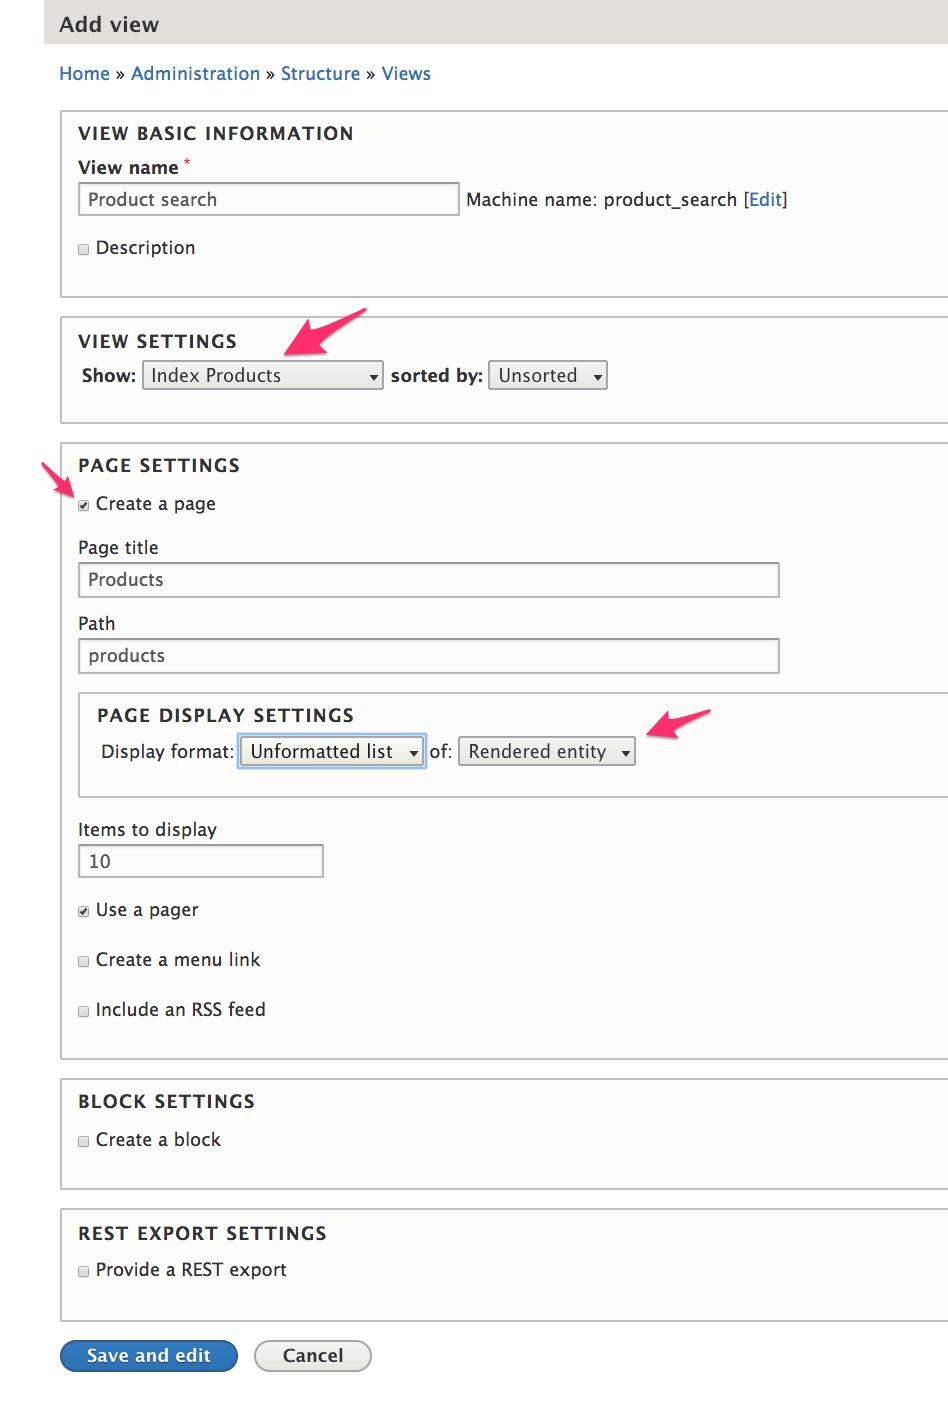
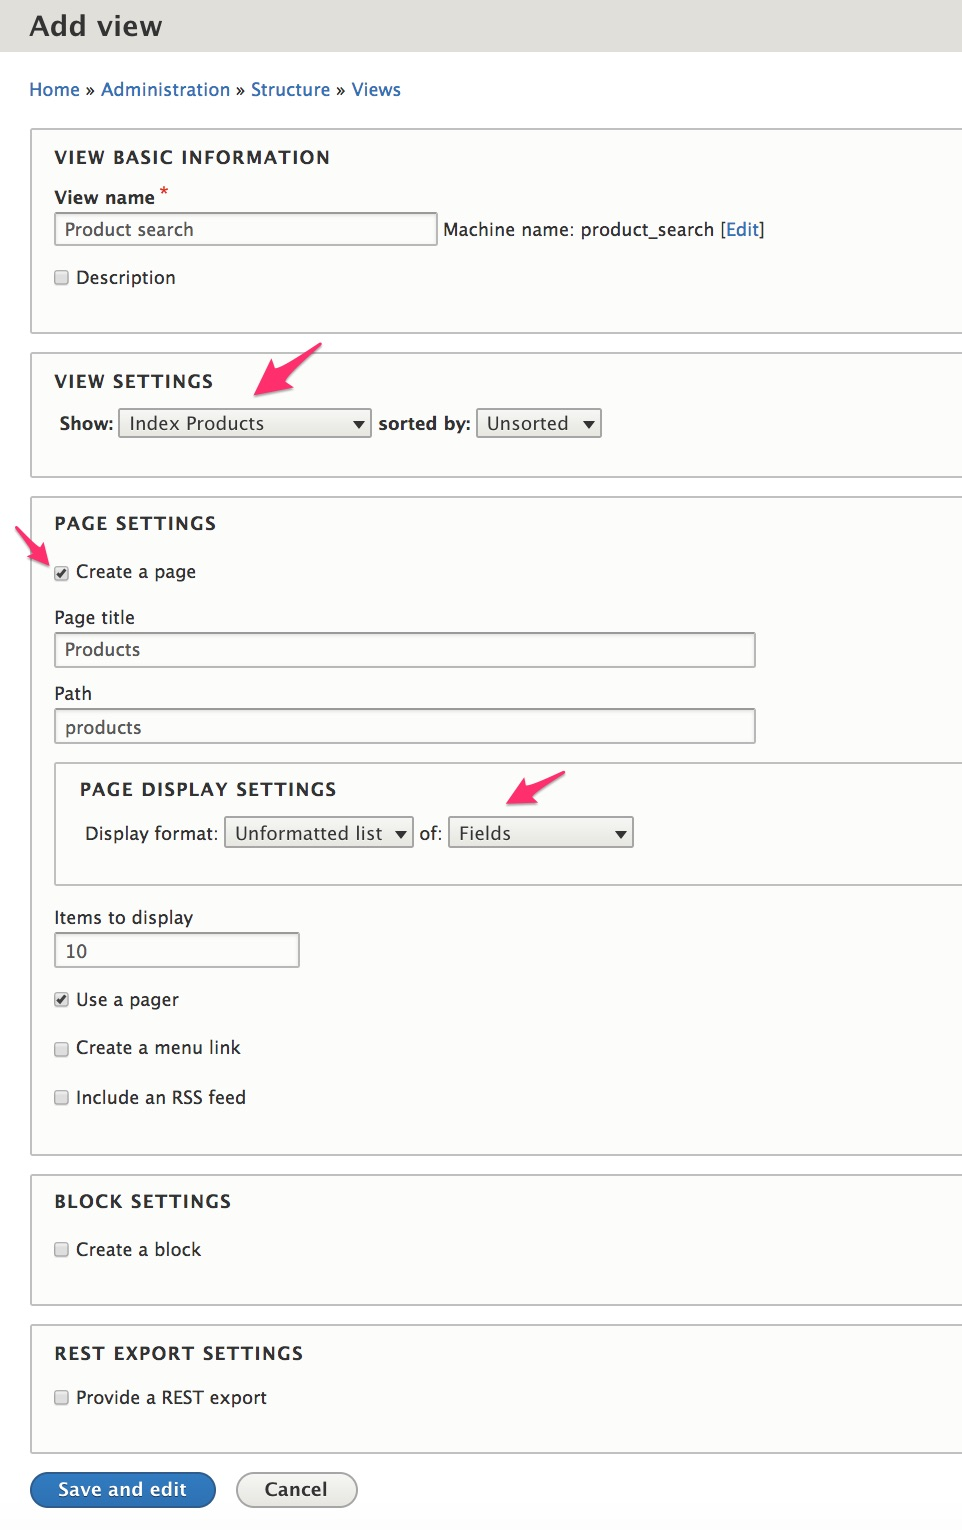
finished product search page draft

Changed region(s): [[0.0, 0.0, 1.0, 0.9958]]

diff --git a/user/pages/03.commerce2/02.developer-guide/03.products/05.marketing-products/01.product-search/docs.md b/user/pages/03.commerce2/02.developer-guide/03.products/05.marketing-products/01.product-search/docs.md
@@ -7,21 +7,26 @@ taxonomy:
 In this section we'll walk through the process of using the [Search API module] and the Drupal 8 core [Views module] to create a basic product search page like this:
 ![Product search page](../../images/product-search.jpg)
 
-#### Configure Search API module for product search
-Search API is a contributed module that provides a framework for creating searches on Drupal entities. To setup product search functionality with Search API, we'll:
-1. [Install the Search API module and uninstall the "Search" module provided by Drupal 8 Core.](#1-install-search-api-modules)
+### Configure Search API module for product search
+Search API is a contributed module that provides a framework for creating searches on Drupal entities. The general steps for setting up search functionality for products (or any type of data) with Search API are:
+
+**Step 1:** [Install the Search API module and uninstall the "Search" module provided by Drupal 8 Core.](#step-1-install-search-api-modules)
  - Typically, you will want to uninstall the Core Search module for performance reasons.
-2. [Add a search server with Drupal's own database as the search backend.](#2-add-a-server)
- - Typically, most sites will want to use a more powerful backend like Solr or Elasticsearch.
-3. [Add an index for products.](#3-add-an-index)
+
+**Step 2:** [Add a search server with Drupal's own database as the search backend.](#step-2-add-a-server)
+ - Typically, most sites will want to use a more powerful backend like Solr or Elasticsearch instead of Drupal's own database..
+
+**Step 3:** [Add an index for products.](#step-3-add-an-index)
  - The index's settings determine what data is indexed and how it is indexed.
-4. [Specify which product fields should be indexed and set their data types and weights.](#4-select-the-indexed-fields)
+
+**Step 4:** [Specify which product fields should be indexed and set their data types and weights.](#step-4-select-the-indexed-fields)
  - The data type of a field determines how it can be used for searching and filtering.
  - A "boost" value is used to give additional weight to fields to affect the ordering of the search results.
-5. [Enable some basic processors for our index.](#5-configure-processors)
+
+**Step 5:** [Enable some basic processors for our index.](#step-5-configure-processors)
  - The [Processors page] in the Search API documentation guide provides a good overview of processor options.
 
-##### 1. Install Search API modules
+##### Step 1: Install Search API modules
 1. Install the [Search API module]. (*see the extending docs.*)
 2. Navigate to the "Extend" page at `/admin/modules`.
 3. Install the "Database Search" and "Search API" modules.
@@ -29,7 +34,7 @@ Search API is a contributed module that provides a framework for creating search
 
 ![Install search api modules](../../images/product-search-1.jpg)
 
-##### 2. Add a server
+##### Step 2: Add a server
 1. Navigate to the Search API configuration page at `/admin/config/search/search-api`.
 2. Click the "Add server" button to add a server.
 3. Enter "Database" for the server name.
@@ -37,7 +42,7 @@ Search API is a contributed module that provides a framework for creating search
 
 ![Add server](../../images/product-search-2.jpg)
 
-##### 3. Add an index
+##### Step 3: Add an index
 1. Return to the Search API configuration page at `/admin/config/search/search-api`.
 2. Click the "Add index" button to add an index.
 3. Enter "Products" for the index name.
@@ -48,26 +53,31 @@ Search API is a contributed module that provides a framework for creating search
 
 ![Add search index](../../images/product-search-3.jpg)
 
-##### 4. Select the indexed fields
-Add fields for all properties for which you want to store data on the search server.
-We'll select all the fields we want indexed for our search. Explain this here...
-Title, Body: Processed text, Variations (SKU and title)
-Only fulltext fields can be used in fulltext searched. Use it to find individual words contained in this field, not just the whole field value. completely searched for filtering.
-Boost value affects score, weighting.
-Re-do this image with all fields having fulltext.
+##### Step 4: Select the indexed fields
+1. Navigate to the Search API field management administration page at `/admin/config/search/search-api/index/products/fields`.
+2. Use the "Add fields" button to select all the field properties you want indexed. Search API will store data on the search server for each of these fields. In some cases, you will need to drill down into the options to locate the exact property you want. For example, for the Product Body field, it's the "Processed text" property that we actually want to index and search by:
+![Add index fields](../../images/product-search-10.jpg)
+
+3. Specify the Type for each of the added fields. We've added Title, Product variation SKU, and Product variation Title fields to this search index. Since we want to be able to find individual words contained in our search fields, not just the whole field value, select "Fulltext" for each of the fields. (You can use non-Fulltext field types when you only want to use a field for filtering or sorting.)
+4. Set the Boost value for each of the added fields. Fields with higher boost scores will be "boosted" towards the top of the search listings. For example, if the Product Title has a boost score of 5, and other fields only have a boost score of 1, then products with the search term in their title will appear higher in the search results than products that only have the term in other fields.
+
 
 ![Add index fields](../../images/product-search-4.jpg)
 
-##### 5. Configure processors
-1. Enable the processors you want to use. We'll select "Entity status", "HTML filter", and "Ignore case".
-2. We'll use the default settings for the "Processor order" settings.
-3. For the "HTML filter" processor settings, we only need the processor to be enabled for the product Body field. So deselect the other options. We'll leave the "Tag boosts" as is.
-4. For the "Ignore case" processor settings, we'll just use the default settings.
+##### Step 5: Configure processors
+1. Navigate to the Search API processors administration page at `/admin/config/search/search-api/index/products/processors`.
+2. Enable the processors you want to use. We'll select "Entity status", "HTML filter", and "Ignore case".
+3. You can use the default settings for the "Processor order" settings.
+4. Then, for each of the selected processors, you may have some additional settings to configure:
+ - For the "HTML filter" processor settings, we only need the processor to be enabled for the product Body field. So deselect the other options. Leave the "Tag boosts" as is.
+ - For the "Ignore case" processor settings, just use the default settings.
 
 ![Configure processors](../../images/product-search-5.jpg)
 
+### Create a basic product search page
+Next, we'll set up a basic search page for our indexed data using Views and the Drupal core Block layout functionality.
 
-#### Create a products search view
+##### Step 1: Create a products search view
 1. Navigate to the Views administration page at `/admin/structure/views` and click the "Add view" button.
 2. Enter "Product search" for the view name.
 3. Select "Index Products" for the "Show" setting, under "View settings". This is the index we created previously and named "Products".
@@ -78,11 +88,14 @@ Re-do this image with all fields having fulltext.
 
 ![Create product search view](../../images/product-search-8.jpg)
 
-##### Configure the products search view
-fix this here for fields instead of rendered entity...
-1. Click on the "Settings" link to the right of "Show: Rendered entity", in the "Format" section, and change the "View mode" for each product type to "Search".
-2. Click on the "Add" button in the "Filter criteria" section, select the "Fulltext search" option, and click the "Add and configure filter criteria" button.
-3. Configure the Fulltext search filter:
+##### Step 2: Configure the products search view
+1. In the Fields section, remove the "Product datasource: Body >> Processed text" field.
+2. In the Fields section, add and configure the "Product datasource: Title" field.
+  * Select the "Summary or trimmed" formmater.
+  * Enter "300" for the "Trimmed limit"
+3. In the Fields section, add and configure the "Product datasource: Body" field.
+  * Select the "Link to the Product" option.
+4. In the Filter criteria section, add and configure the "Fulltext search" item:
  - Select "Expose this filter to visitors, and allow them to change it".
  - Select the "Required" option.
  - Enter "Search products" for the "Label".
@@ -90,22 +103,28 @@ fix this here for fields instead of rendered entity...
 
 ![Add fulltext search filter](../../images/product-search-9.jpg)
 
-4. Click on the "Add" button in the "Sort criteria" section, select the "Relevance" option, and click the "Add and configure sort criteria" button. Select "Sort descending" for the "Order".
-5. In the "Exposed form" section of the "Advanced" settings, click the "No" link next to "Exposed form in block" to change the setting to "Yes".
-6. Also in the "Exposed form" section of the "Advanced" settings, click the "Settings" link next to "Exposed form style" to change the "Submit button text" to "Search".
-7. Click the "Save" button to save your changes.
+5. In the Sort criteria section, add and configure the "Relevance" option.
+ - Select "Sort descending" for the "Order".
+6. In the Exposed form section of the "Advanced" settings, click the "No" link next to "Exposed form in block" to change the setting to "Yes".
+7. In the Exposed form section of the "Advanced" settings, click the "Settings" link next to "Exposed form style" to change the "Submit button text" to "Search".
+8. Click the "Save" button to save your changes.
 
-#### Add the search block to your pages
+##### Step 3: Add the search block to your pages
 1. Navigate to the "Block layout" administration page at `/admin/structure/block`.
-2. Click the "Place block" button for the "Header" region.
+2. Click the "Place block" button for the "Content" region.
 3. Click the "Place block" button for the "Exposed form: product_search-page_1" block.
+4. Set the Visibility settings so that the block only appears on the `/products` page.
+![Search form block visibility settings](../../images/product-search-11.jpg)
+5. Rearrange the "Content" blocks so that the "Exposed form: product_search-page_1" block appears right below the "Page title" block.
+6. Click the "Save blocks" button at the bottom of the page.
+7. Navigate to your Products search page at `\products` to try your new search form.
 
-This isn't working...I think because of the product template. Need to use fields instead, I think... Yes, need to re-write this to use fields instead of rendered entity.
+Optionally, you may want to add a menu link to the `\products` page or add the search block to all pages, perhaps in the Header region.
 
 ### Links and resources
+* [Search API module documentation]
 * Drupal 8 User Guide documentation on [Creating Listings with Views]
 * Drupal 8 User Guide documentation on [Concept: Blocks]
-* [Search API module documentation]
 
 ---
 In the next section, we'll look at how we can extend this basic product search with facets to create a product catalog for our site.
